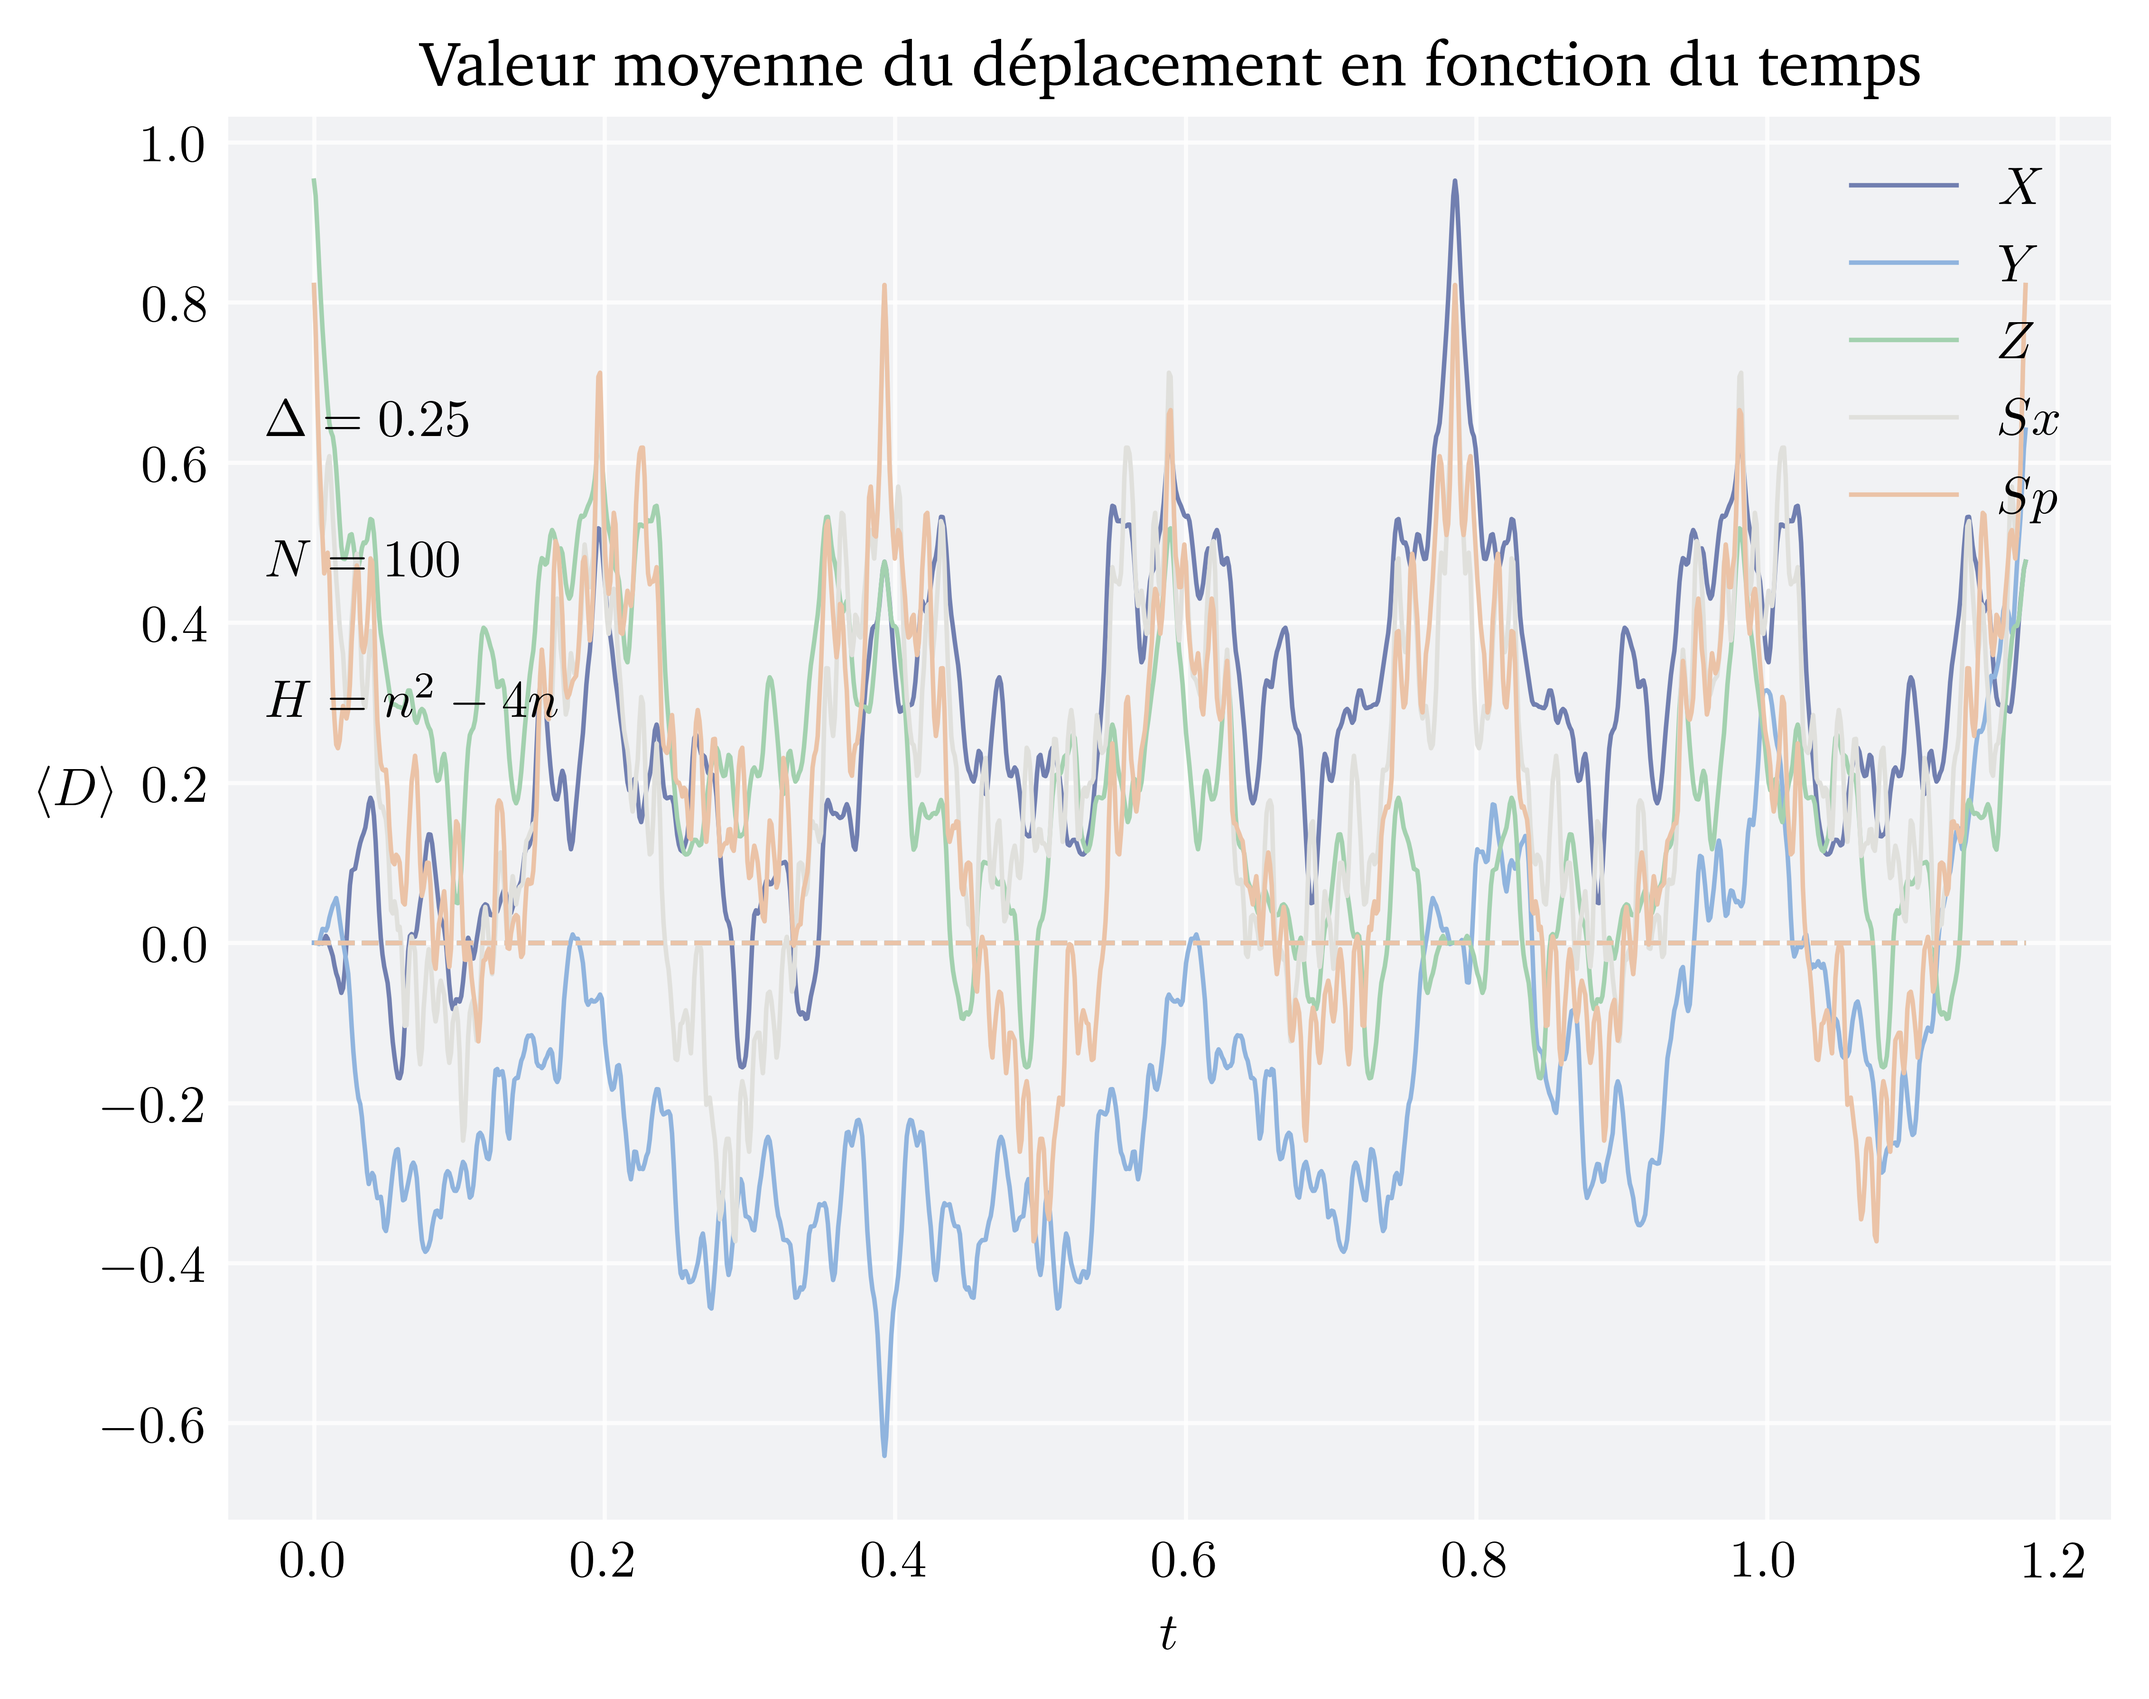
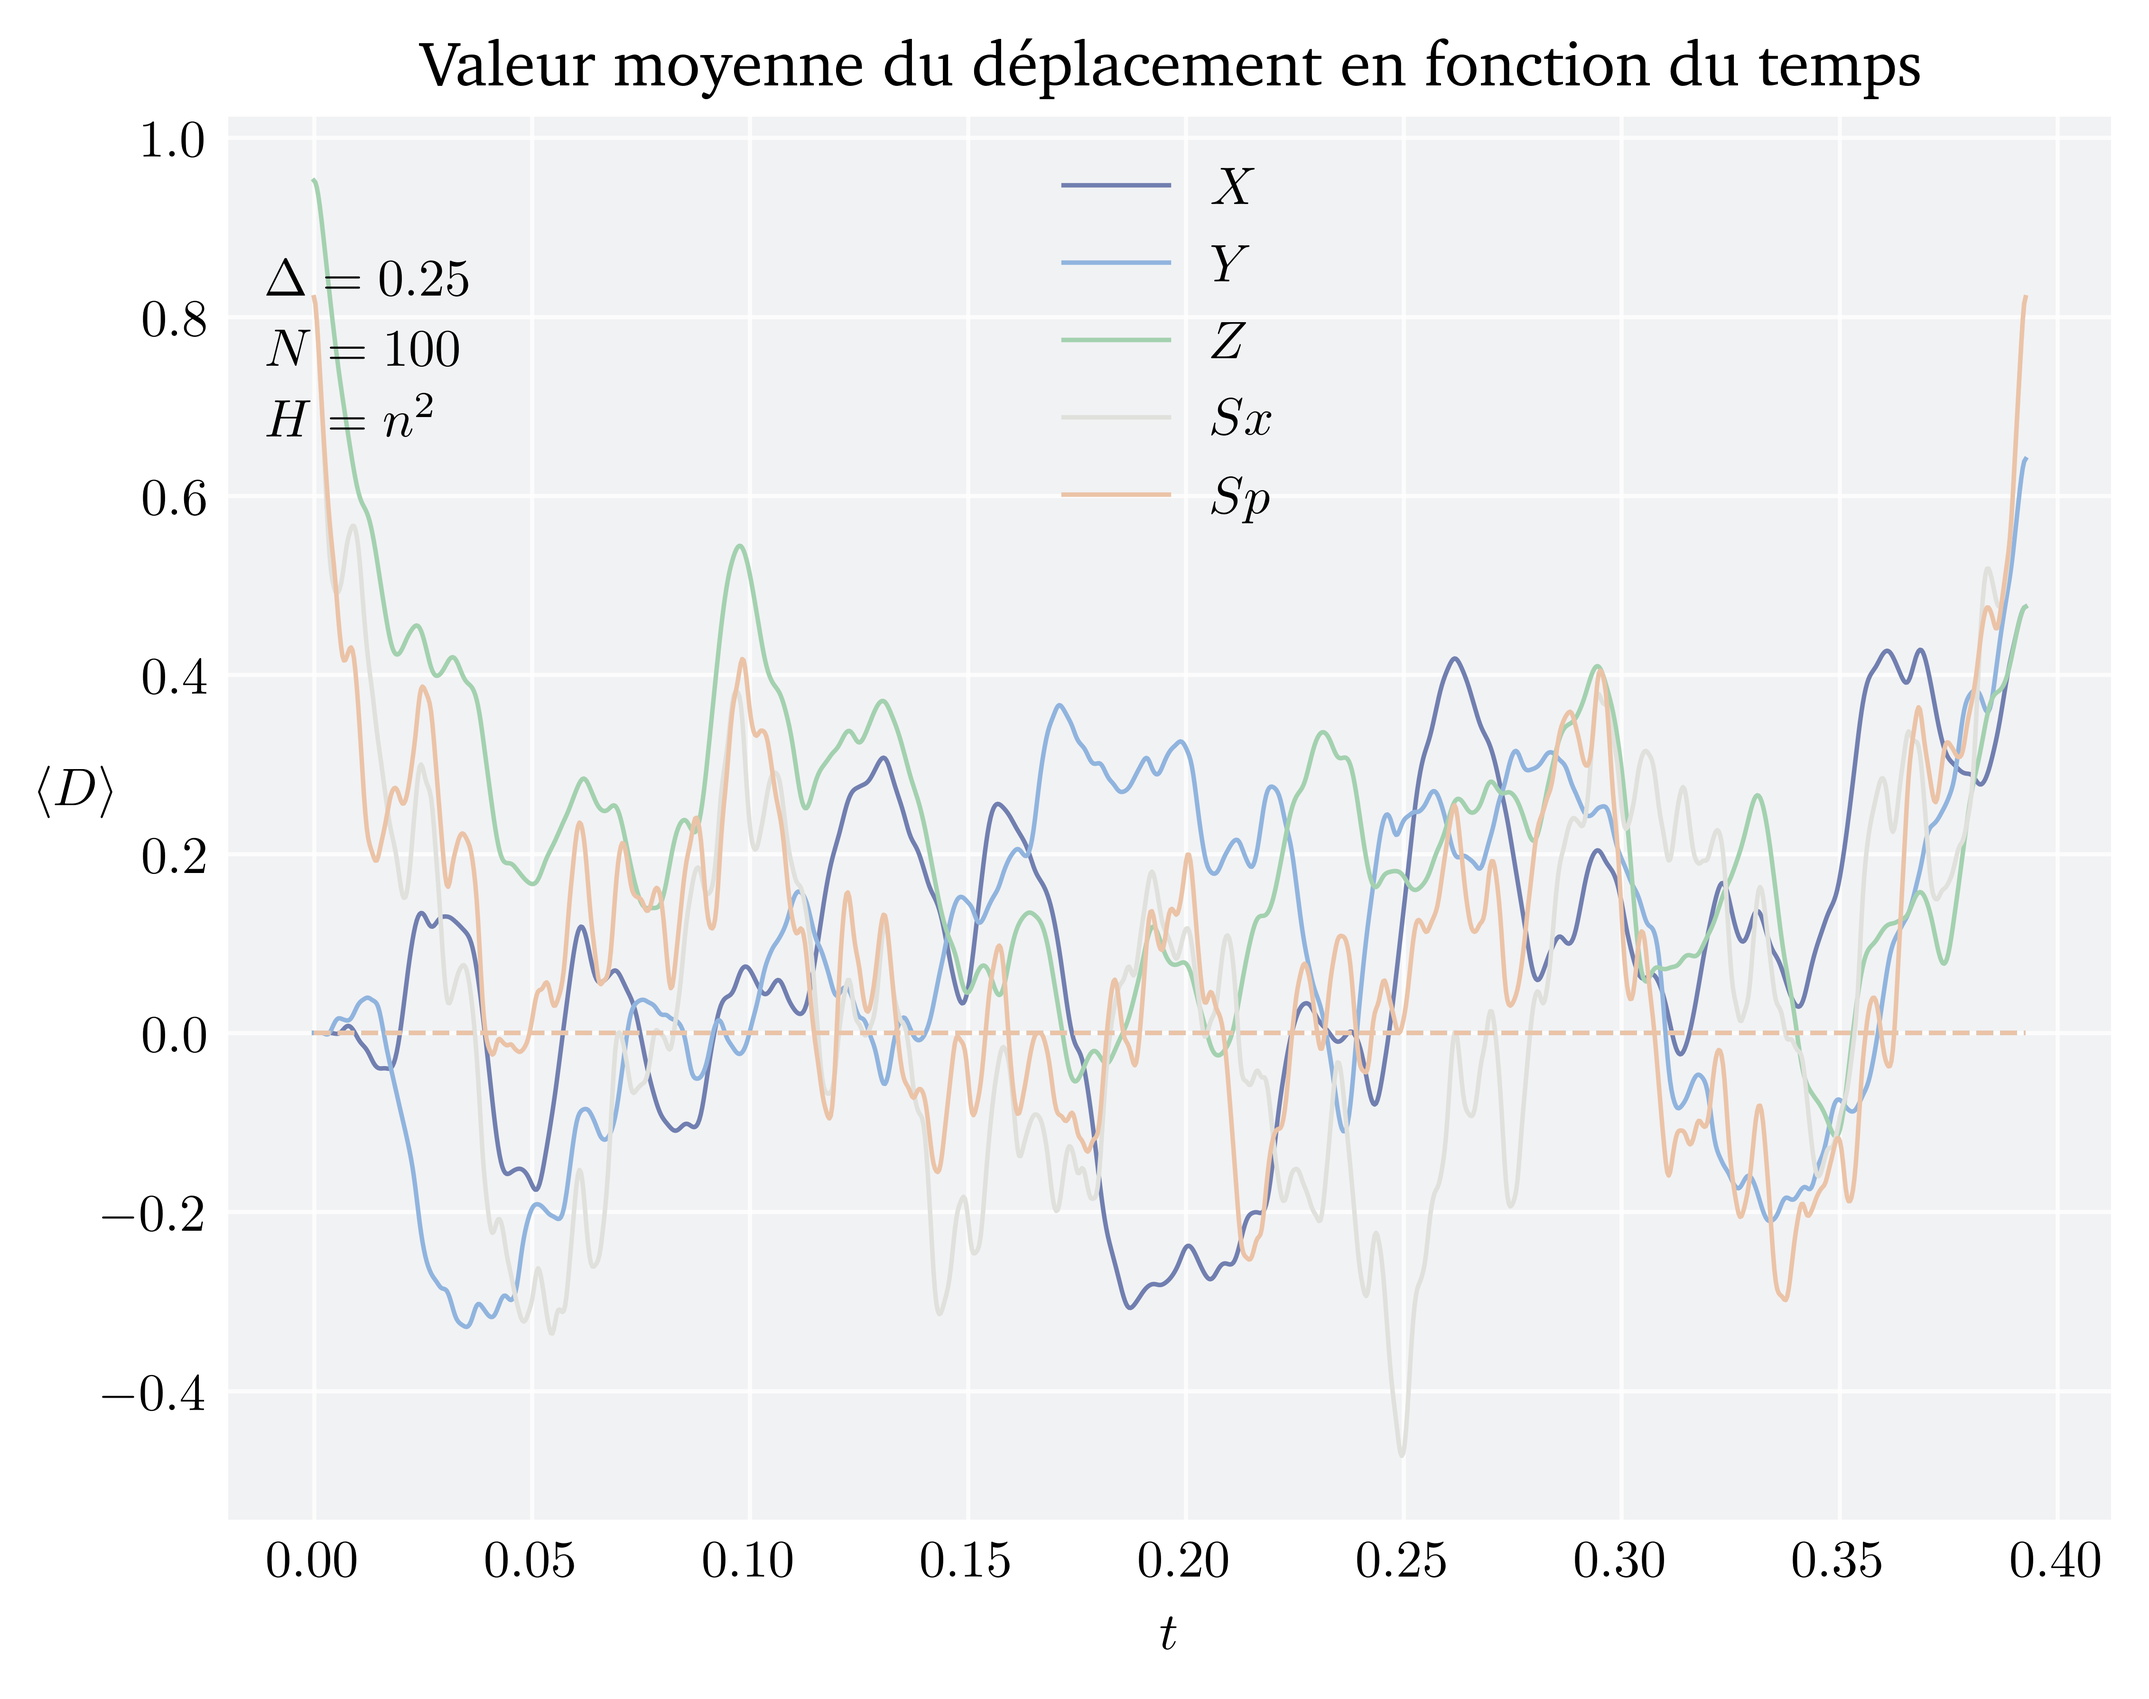
animation

diff --git a/stage_baptiste/projects/Basic_GKP_tests/Basic_GKP_tests.py b/stage_baptiste/projects/Basic_GKP_tests/Basic_GKP_tests.py
@@ -9,11 +9,13 @@ import numpy as np
 from qutip import *
 from stage_baptiste.homemades.finite_GKP import get_gkp, GKP
 from scipy.constants import pi
+import matplotlib as mpl
 from matplotlib import pyplot as plt
+from matplotlib.animation import FuncAnimation
 
 # oscillator
 
-# delta doit être tel que 1/(2*delta^2) ~ <n> ??
+# delta has to be 1/(2*delta^2) ~ <n> ??
 
 delta = 0.25
 dim = 100
@@ -24,61 +26,109 @@ osc = GKP(delta,dim).state  # gkp with delta = 0
 # plt.savefig(f"Wigner_test_for_finite_GKP/figs/Wigner_{dim}")
 
 
-# porte Hadamar
+# Hadamar gate
 
 
-a = destroy(dim)  # produit tensoriel avec qubit
+a = destroy(dim)
 X,Y,Z,Sx,Sp = np.sqrt(pi/2),np.sqrt(pi/2)*(1+1j),np.sqrt(pi/2)*1j,np.sqrt(2*pi),np.sqrt(2*pi)*1j
 Ds = [displace(dim,gamma) for gamma in [X,Y,Z,Sx,Sp]]  # X,Z,Y,Sx,Sp
 Ds_labels = ["X","Y","Z","Sx","Sp"]
 H = a.dag()*a
 
-tlist = np.linspace(0,pi/2,1000)
+tlist = np.linspace(0,pi/2,10)
 outs = [mesolve(H, osc, tlist, [], [D]) for D in Ds]
 
-# fonction wigner
+# wigner function for H
 # fig, ax = plot_wigner(res.states[-1])
 # ax.text(-6,6,rf"$\Delta = {delta}$")
 # ax.text(-6,5,rf"$N = {dim}$")
 # plt.savefig(f"Wigner_test_for_finite_GKP/figs/Hadamar_{dim}")
 
-# valeur moyenne operateur deplacement
-fig, ax = plt.subplots()
-for out,label in zip(outs,Ds_labels):
-    line_re = ax.plot(tlist,np.real(out.expect[0]),label=rf"${label}$")  # real part
-    line_im = ax.plot(tlist,np.imag(out.expect[0]),ls="--",color=line_re[0].get_color())  # imaginary part
-ax.text(0.02,0.8,rf"$\Delta = {delta}$",ha='left', va='top', transform=ax.transAxes)
-ax.text(0.02,0.7,rf"$N = {dim}$",ha='left', va='top', transform=ax.transAxes)
-ax.text(0.02,0.6,r"$H = a^{\dag}a$",ha='left', va='top', transform=ax.transAxes)
-ax.set_xlabel(r"$t$")
-ax.set_ylabel(r"$\langle D \rangle$",rotation=0)
-plt.title("Valeur moyenne du déplacement en fonction du temps")
-plt.legend()
-plt.savefig(f"/Users/jeremie/Desktop/Stage_Baptiste/stage_baptiste/projects/Basic_GKP_tests/figs/H_Davg_{dim}")
+# average of displacements for H
+# fig, ax = plt.subplots()
+# for out,label in zip(outs,Ds_labels):
+#     line_re = ax.plot(tlist,np.real(out.expect[0]),label=rf"${label}$")  # real part
+#     line_im = ax.plot(tlist,np.imag(out.expect[0]),ls="--",color=line_re[0].get_color())  # imaginary part
+# ax.text(0.02,0.8,rf"$\Delta = {delta}$",ha='left', va='top', transform=ax.transAxes)
+# ax.text(0.02,0.7,rf"$N = {dim}$",ha='left', va='top', transform=ax.transAxes)
+# ax.text(0.02,0.6,r"$H = a^{\dag}a$",ha='left', va='top', transform=ax.transAxes)
+# ax.set_xlabel(r"$t$")
+# ax.set_ylabel(r"$\langle D \rangle$",rotation=0)
+# plt.title("Valeur moyenne du déplacement en fonction du temps")
+# plt.legend()
+# plt.savefig(f"/Users/jeremie/Desktop/Stage_Baptiste/stage_baptiste/projects/Basic_GKP_tests/figs/H_Davg_{dim}")
+#
 
 
-# porte racine Hadamard
+# sqrtH gate
+
+
 n = a.dag()*a
-H = a.dag()*a*a.dag()*a - 4*a.dag()*a
+H = n*n
 
-tlist = np.linspace(0,3*pi/8,1000)
-outs = [mesolve(H, osc, tlist, [], [D]) for D in Ds]
+tf = pi/8
+# tlist = np.linspace(0,tf,150)  # animation
+tlist = np.linspace(0,tf,1200)  # expectation values
+options = Options(store_states=True)
+outs = [mesolve(H, osc, tlist, [], [D],options=options) for D in Ds]
 
-# fonction wigner
-# outa = mesolve(H, osc, tlist, [], [])  # car avec les e_ops je ne trouve pas les etats etrangement
-# fig, ax = plot_wigner(outa.states[-1])
+
+# sqrtH Wigner function
+
+
+# fig, ax = plot_wigner(outs[0].states[-1])
 # ax.text(-6,6,rf"$\Delta = {delta}$")
 # ax.text(-6,5,rf"$N = {dim}$")
 # plt.savefig(f"/Users/jeremie/Desktop/Stage_Baptiste/stage_baptiste/projects/Basic_GKP_tests/figs/sqrtHadamar_{dim}")
 
 
+# sqrtH Wigner function animation
+
+
+# debut = np.zeros(4,dtype=int).tolist()
+# fin = (tf*np.ones(4)).tolist()
+# gif_tlist = debut+tlist.tolist()+fin  # times (0 to 3pi/8) with supplementary 0s and 3pi/8s for gif
+# frames = debut+np.arange(0,len(tlist),1).tolist()+(range(len(tlist))[-1]*np.ones(4,dtype=int)).tolist()  # index (0,1,2,3,...)
+# fig, ax = plt.subplots(figsize=(5, 4))
+# ax.set_xlabel(r'$\rm{Re}(\alpha)$', fontsize=12)
+# ax.set_ylabel(r'$\rm{Im}(\alpha)$', fontsize=12)
+# ax.set_title("Wigner function", fontsize=12)
+# xvec = np.linspace(-7.5, 7.5, 200)
+# W0 = wigner(outs[0].states[0], xvec, xvec)
+# W, yvec = W0 if isinstance(W0, tuple) else (W0, xvec)
+# wlim = abs(W).max()
+# cax = ax.contourf(xvec, yvec, W, 100,norm=mpl.colors.Normalize(-wlim, wlim),cmap=mpl.colormaps['RdBu'])
+#
+#
+# def animate(i):
+#     ax.clear()
+#     ax.set_xlabel(r'$\rm{Re}(\alpha)$', fontsize=12)
+#     ax.set_ylabel(r'$\rm{Im}(\alpha)$', fontsize=12)
+#     ax.set_title("Wigner function", fontsize=12)
+#     W0 = wigner(outs[0].states[i], xvec, xvec)
+#     W, yvec = W0 if isinstance(W0, tuple) else (W0, xvec)
+#     ax.contourf(xvec, yvec, W, 100, norm=mpl.colors.Normalize(-wlim, wlim), cmap=mpl.colormaps['RdBu'])
+#     ax.text(0.02,0.75,rf"$t = {round(gif_tlist[i],4)}$",ha='left', va='top', transform=ax.transAxes)
+#     ax.text(0.02,0.8,r"$H = n^2$",ha='left', va='top', transform=ax.transAxes)
+#     ax.text(0.02,0.85,rf"$\Delta = {delta}$",ha='left', va='top', transform=ax.transAxes)
+#     ax.text(0.02,0.9,rf"$N = {dim}$",ha='left', va='top', transform=ax.transAxes)
+#
+#
+# anim = FuncAnimation(
+#     fig, animate, interval=100, frames=frames)
+# anim.save("/Users/jeremie/Desktop/Stage_Baptiste/stage_baptiste/projects/Basic_GKP_tests/figs/"
+#           "Wigner_animation_sqrtH.gif")
+
+
+# average of displacements for sqrtH
+
 fig, ax = plt.subplots()
 for out,label in zip(outs,Ds_labels):
     line_re = ax.plot(tlist,np.real(out.expect[0]),label=rf"${label}$")  # real part
     line_im = ax.plot(tlist,np.imag(out.expect[0]),ls="--",color=line_re[0].get_color())  # imaginary part
-ax.text(0.02,0.8,rf"$\Delta = {delta}$",ha='left', va='top', transform=ax.transAxes)
-ax.text(0.02,0.7,rf"$N = {dim}$",ha='left', va='top', transform=ax.transAxes)
-ax.text(0.02,0.6,r"$H = n^2 - 4n$",ha='left', va='top', transform=ax.transAxes)
+ax.text(0.02,0.9,rf"$\Delta = {delta}$",ha='left', va='top', transform=ax.transAxes)
+ax.text(0.02,0.85,rf"$N = {dim}$",ha='left', va='top', transform=ax.transAxes)
+ax.text(0.02,0.8,r"$H = n^2$",ha='left', va='top', transform=ax.transAxes)
 ax.set_xlabel(r"$t$")
 ax.set_ylabel(r"$\langle D \rangle$",rotation=0)
 plt.title("Valeur moyenne du déplacement en fonction du temps")
